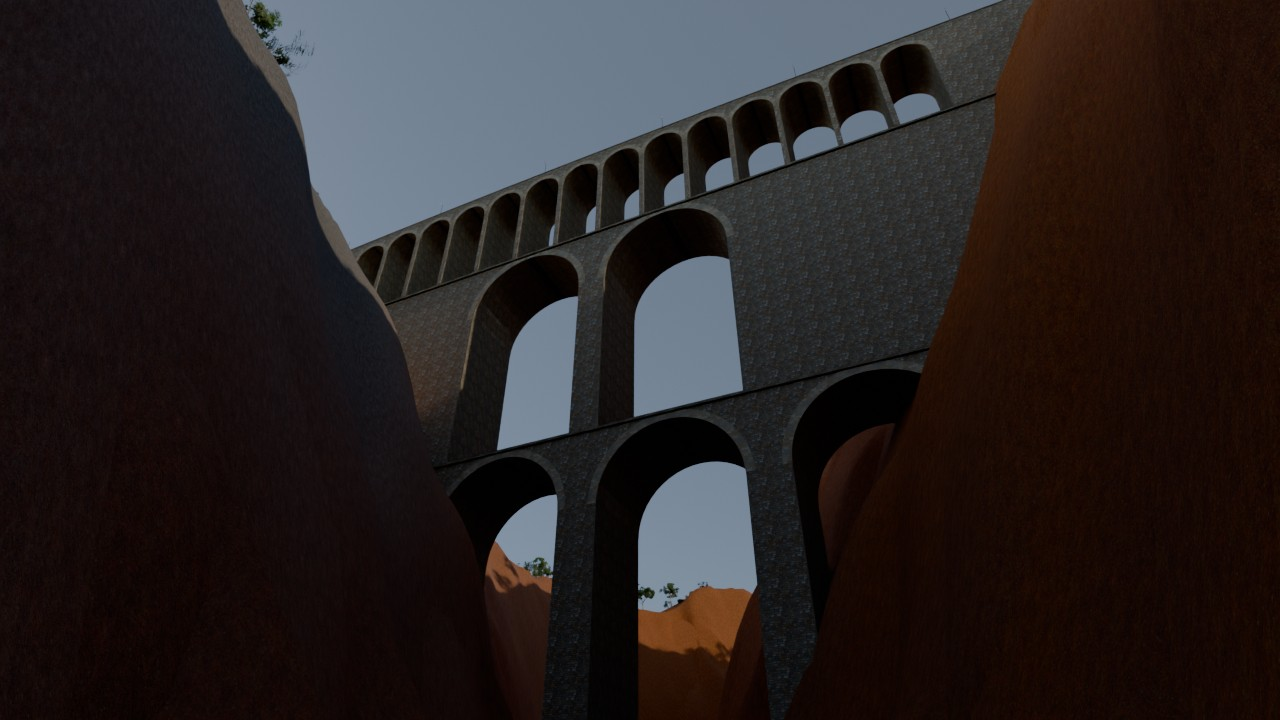
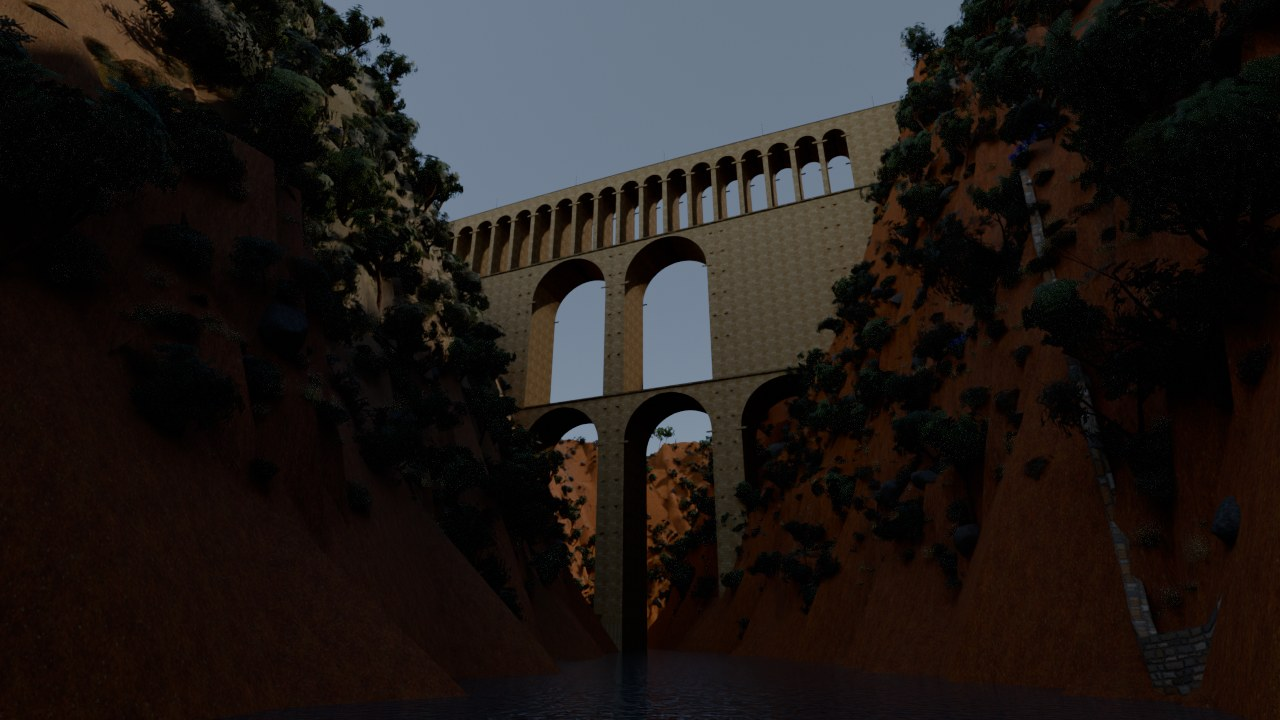
Pont des Ocres : rendus réalistes façon pont du Gard (vue depuis le fond des gorges), README mis à jour
Claude-Session: https://claude.ai/code/session_01MVWCzaqNWTQZ4ZJYpCZv4k

diff --git a/Plugins/VillageProvence/README.md b/Plugins/VillageProvence/README.md
@@ -19,7 +19,7 @@ Un village provençal complet de **4 × 4 km**, construit sur le **plan réel de
 | **Monuments** | Église Saint-Michel avec clocher et cloche, beffroi avec horloge et campanile en fer forgé, mairie avec drapeaux, plaque « MAIRIE » et devise, monument aux morts, deux fontaines. |
 | **Commerces** | Placés à l'emplacement des commerces réels (noms inventés) : cafés et restaurants avec terrasses et parasols, boulangerie, coiffeur, pharmacie avec croix verte, épicerie, bar-tabac avec sa carotte, galeries, savons de Provence, santons, cave à vins, hôtel, poste. |
 | **Rues** | Calades de galets dans le vieux village, places dallées en terrasse avec murs de soutènement, routes goudronnées avec lignes blanches, chemins, escaliers, 47 plaques de rue émaillées aux vrais noms (rue de l'Église, rue des Bourgades…), panneaux d'entrée « ROUSSILLON », panneaux directionnels, 223 réverbères, lanternes murales, bancs. |
-| **Gorges de la rivière des Ocres et grand pont** | Une rivière de 4,8 km traverse toute la carte du sud au nord (et ses gorges se prolongent dans le relief lointain), au fond de **gorges** de 80 à 130 m de profondeur : falaises presque verticales et irrégulières, ocre dans le ravin d'ocre (un vrai canyon d'ocre), calcaire ailleurs ; méandres aux virages adoucis, rapides doux ; eau profonde de 6 m sur 20 à 30 m de large. Elle sépare le vieux village du quartier perché. Le **Pont des Ocres** est le **seul passage** d'une rive à l'autre : les autres routes s'arrêtent au bord des falaises. C'est un viaduc de 205 m à **trois étages d'arcades**, à la manière du pont du Gard : grandes arches en bas, arches moyennes au milieu, petite arcade sous le tablier ; chaque étage en retrait sur celui du dessous, murs en moellons, claveaux, corniches et couronnement des parapets en pierre de taille, piles à avant-becs dans l'eau. Sur le tablier dallé : trottoirs, parapets, réverbères et, à chaque bout, deux piliers d'entrée portant une lanterne. Côté quartier, la Grand-Rue monte vers le sommet. Au bord des gorges : platanes, cyprès, chênes, lauriers-roses ; rien au fond (ni plantes, ni bancs, ni zombies). |
+| **Gorges de la rivière des Ocres et grand pont** | Une rivière de 4,8 km traverse toute la carte du sud au nord (et ses gorges se prolongent dans le relief lointain), au fond de **gorges** de 80 à 130 m de profondeur : falaises presque verticales et irrégulières, ocre dans le ravin d'ocre (un vrai canyon d'ocre), calcaire ailleurs ; méandres aux virages adoucis, rapides doux ; eau profonde de 6 m sur 20 à 30 m de large. Elle sépare le vieux village du quartier perché. Le **Pont des Ocres** est le **seul passage** d'une rive à l'autre : les autres routes s'arrêtent au bord des falaises. C'est un viaduc de 205 m à **trois étages d'arcades**, à la manière du pont du Gard : grandes arches en bas, arches moyennes au milieu, petite arcade sous le tablier ; chaque étage en retrait sur celui du dessous, quatre petites arches par travée sous un bandeau plein. Tout est en **calcaire doré en grand appareil** (texture PierreGard : gros blocs à joints secs, arêtes émoussées, érosion, coulures et lichens), avec claveaux saillants, **impostes** à la naissance des arches, **boutisses** en saillie sur les piles (comme les pierres d'échafaudage du pont du Gard), corniches et piles à avant-becs dans l'eau. Sur le tablier dallé : trottoirs, parapets, réverbères et, à chaque bout, deux piliers d'entrée portant une lanterne. Côté quartier, la Grand-Rue monte vers le sommet. Au bord des gorges : platanes, cyprès, chênes, lauriers-roses ; rien au fond (ni plantes, ni bancs, ni zombies). |
 | **Quartier des Ocres** | Un village perché sur une **colline** d'une trentaine de mètres, au nord-est de la coulée d'ocre, qui en ravine le flanc sud-ouest. La colline est modelée dans le terrain : contour à éperons et vallons, flanc raide côté ocre et doux vers le nord-est, petites bosses naturelles. Le quartier s'enroule autour du sommet comme une **circulade** provençale : 4 rues en anneaux le long des courbes de niveau, 6 montées en calade qui serpentent vers la **placette du sommet**, et environ 580 maisons de village mitoyennes, serrées au centre et plus lâches en bordure (jardins, oliviers). Même style que le vieux village ; l'anneau extérieur, goudronné, rejoint le réseau routier. |
 | **Ceinture du village** | Tout autour du village, une mer de **lavande sur environ 500 m** (1 048 parcelles aux rangs orientés différemment, 188 ha), parsemée d'environ 800 **oliviers** (seuls ou par deux ou trois) et quelques centaines de **cyprès** (isolés ou en courts alignements ; les haies brise-vent y ont été retirées). Seuls **10 mas** isolés y sont gardés, chacun avec son jardin (pelouse, oliviers, cyprès, lauriers-roses). Au-delà, une **forêt dense** de pins et de chênes verts sur 600 m (425 ha), avec un sous-bois de garrigue. Les falaises et coulées d'**ocre** restent à nu. |
 | **Petit patrimoine rural** | ~9 km de **murets de pierre sèche** le long des chemins et entre certaines parcelles (hauteur et épaisseur variables, interrompus aux entrées de champ), 12 **bories** (cabanes rondes de berger en pierre sèche, porte basse à linteau) isolées dans les champs et la garrigue, et des **puits** en pierre dans les jardins des mas.  ![Une borie dans la lavande](Docs/borie.jpg) |
